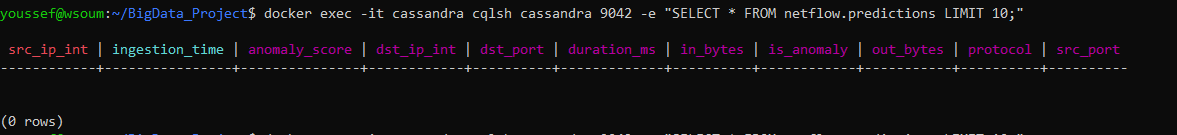
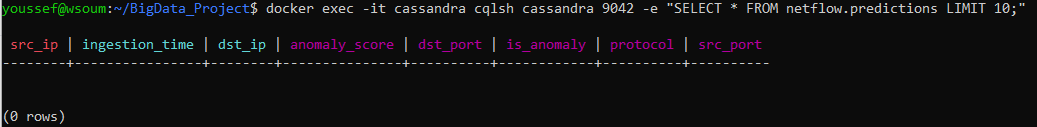
Up

diff --git a/scripts/realtime_netflow_predictor_savedb.py b/scripts/realtime_netflow_predictor_savedb.py
@@ -52,26 +52,15 @@ import csv
 import os
 
 def save_to_cassandra():
-    """حفظ النتائج إلى Cassandra بشكل منفصل - الخيار 1"""
+    """حفظ النتائج إلى Cassandra باستخدام parallelize لتجنب مشاكل التسلسل"""
     if not results_cache:
         return
     
     try:
-        # إنشاء DataFrame من النتائج المتراكمة
-        data = []
-        for record in results_cache:
-            data.append((
-                record["src_ip"],        # src_ip (TEXT)
-                record["dst_ip"],        # dst_ip (TEXT)  
-                record["src_port"],      # src_port (INT)
-                record["dst_port"],      # dst_port (INT)
-                record["protocol"],      # protocol (INT)
-                record["is_anomaly"],    # is_anomaly (INT)
-                record["anomaly_score"], # anomaly_score (DOUBLE)
-                datetime.now()           # ingestion_time (TIMESTAMP)
-            ))
+        # تحويل البيانات إلى RDD مباشرة لتجنب مشاكل cloudpickle
+        data_rdd = spark.sparkContext.parallelize(results_cache)
         
-        # إنشاء DataFrame مع مخطط متوافق مع جدول Cassandra الجديد
+        # تحويل RDD إلى DataFrame باستخدام createDataFrame المباشر
         from pyspark.sql.types import StructType, StructField, StringType, IntegerType, DoubleType, TimestampType
         
         schema = StructType([
@@ -85,7 +74,22 @@ def save_to_cassandra():
             StructField("ingestion_time", TimestampType(), True)
         ])
         
-        df = spark.createDataFrame(data, schema)
+        # تحويل البيانات مباشرة إلى قائمة tuples
+        data_tuples = []
+        for record in results_cache:
+            data_tuples.append((
+                record["src_ip"],
+                record["dst_ip"], 
+                record["src_port"],
+                record["dst_port"],
+                record["protocol"],
+                record["is_anomaly"],
+                record["anomaly_score"],
+                datetime.now()
+            ))
+        
+        # إنشاء DataFrame مباشرة من القائمة
+        df = spark.createDataFrame(data_tuples, schema)
         
         # محاولة الحفظ إلى Cassandra
         df.write \
@@ -100,8 +104,8 @@ def save_to_cassandra():
         
     except Exception as e:
         print(f"✗ Failed to save to Cassandra: {str(e)[:200]}")
-        # في حالة الفشل، احفظ في CSV كنسخة احتياطية
-        save_to_csv_backup()
+        # استخدم النسخة الاحتياطية البسيطة
+        simple_csv_backup()
 
 def save_to_csv():
     """حفظ النتائج إلى ملف CSV مؤقتاً"""
